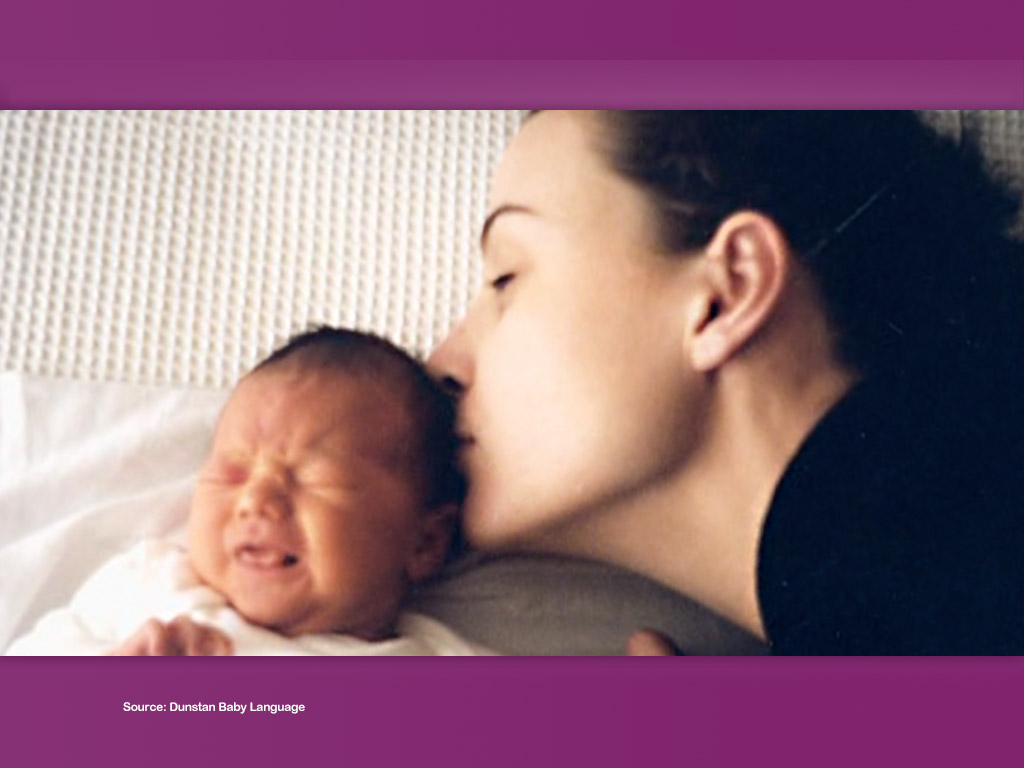
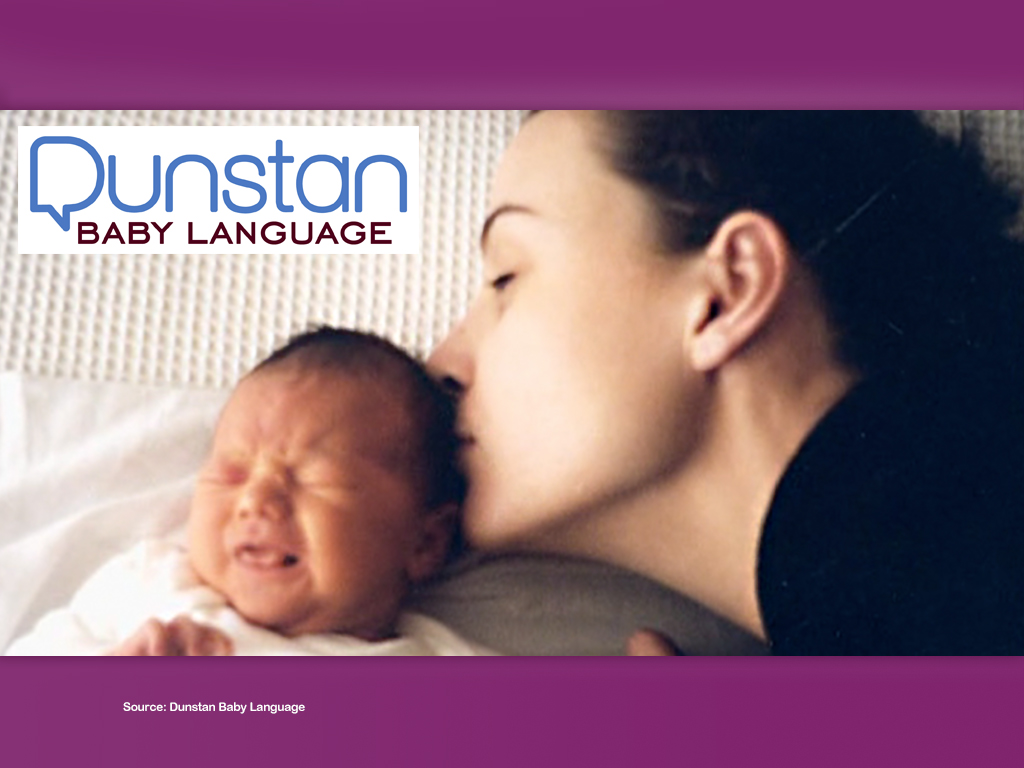
Changes made by Jeffrey Turingan (jeffrey.turingan@gmail.com).

Changed region(s): [[0.0, 0.1562, 0.4062, 0.3438]]

diff --git a/Enfalac/index.html b/Enfalac/index.html
@@ -1,1 +1,1 @@
-<!DOCTYPE html><html><head><meta name="apple-mobile-web-app-capable" content="yes"/><meta name="apple-mobile-web-app-status-bar-style" content="black-translucent"/><meta name="viewport" content="width=device-width, initial-scale=1.0, maximum-scale=1.0, user-scalable=0"/><link rel="stylesheet" href="css/main.min.css"><link rel="stylesheet" href="css/bookblock.min.css"><link rel="stylesheet" href="css/custom.min.css"><script src="js/modernizr.custom.79639.js"></script><!--<script>window.onload=function(){document.getElementById('babygiggle').pause();};</script>--><title>Enfalac</title></head><body><div id="container" class="container"><div class="menu-panel"><h3>Table of Contents</h3><ul id="menu-toc" class="menu-toc"><li class="menu-toc-current"><a href="#item1">Slide 1</a></li><li><a href="#item2">Slide 2</a></li><li><a href="#item3">Slide 3</a></li><li><a href="#item4">Slide 4</a></li><li><a href="#item5">Slide 5</a></li><li><a href="#item6">Slide 6</a></li><li><a href="#item7">Slide 7</a></li><li><a href="#item8">Slide 8</a></li><li><a href="#item9">Slide 9</a></li><li><a href="#item10">Slide 10</a></li><li><a href="#item11">Slide 11</a></li><li><a href="#item12">Slide 12</a></li></ul></div><div class="bb-custom-wrapper"><div id="bb-bookblock" class="bb-bookblock"><div class="bb-item" id="item1"><div class="content"><div id="slide1" class="slidebox"><a class="one-refreshBtn"></a><img class="slide1txt" src="css/images/slide1text.png" alt=""/><!--<span class="baby1"><img src="css/images/baby1.png" alt=""/></span><span class="baby1t"><img src="css/images/baby1t.png" alt=""/></span><span class="baby2"><img src="css/images/baby2.png" alt=""/></span><span class="baby2t"><img src="css/images/baby2t.png" alt=""/></span><span class="baby3"><img src="css/images/baby3.png" alt=""/></span><span class="baby3t"><img src="css/images/baby3t.png" alt=""/></span><span class="baby4"><img src="css/images/baby4.png" alt=""/></span><span class="baby4t"><img src="css/images/baby4t.png" alt=""/></span><span class="baby5"><img src="css/images/baby5.png" alt=""/></span><span class="baby5t"><img src="css/images/baby5t.png" alt=""/></span>--></div></div></div><div class="bb-item" id="item2"><div class="content"><div id="slide2" class="slidebox"><!--<span class="pulsate1"><img src="css/images/pulsate.png" alt=""/></span><span class="pulsate2"><img src="css/images/pulsate.png" alt=""/></span><span class="pulsate3"><img src="css/images/pulsate.png" alt=""/></span><span class="s2a"></span><span class="s2b"></span><span class="s2c"></span>--></div></div></div><div class="bb-item" id="item3"><div class="content"><div id="slide3" class="slidebox"></div></div></div><div class="bb-item" id="item4"><div class="content"><div id="slide4" class="slidebox"><a class="video1btn"></a><div id="slide4v" class="videobox"><a class="close">CLOSE</a><div class="vidz"><!--<video width="1024" height="700" controls><source src="video/vid1.mp4" type="video/mp4"/>Your browser does not support the video tag.</video>--></div></div></div></div></div><div class="bb-item" id="item5"><div class="content"><div id="slide6" class="slidebox"><a class="video2btn"></a><div id="slide6v" class="videobox"><a class="close">CLOSE</a><div class="vidz"><!--<video width="1024" height="700" controls><source src="video/vid3.mp4" type="video/mp4"/>Your browser does not support the video tag.</video>--></div></div></div></div></div><div class="bb-item" id="item6"><div class="content"><div id="slide5" class="slidebox"><a class="video3btn"></a><div id="slide5v" class="videobox"><a class="close">CLOSE</a><div class="vidz"></div></div></div></div></div><div class="bb-item" id="item7"><div class="content"><div id="slide7" class="slidebox"><a class="seven-refreshBtn"></a><img src="css/images/slide7txt.png" class="slide7txt" alt=""/><div class="stomach1"><img src="css/images/slide7st.png" alt=""/></div></div></div></div><div class="bb-item" id="item8"><div class="content"><div id="slide8" class="slidebox"><a class="eight-refreshBtn"></a><img src="css/images/slide8txt.png" class="slide8txt" alt=""/><div class="stomach2"><img src="css/images/slide8st.png" alt=""/></div></div></div></div><div class="bb-item" id="item9"><div class="content"><div id="slide9" class="slidebox"><a class="nine-refreshBtn"></a><span class="slide9txt1"></span><img class="slide9txt2" src="css/images/slide9txt2.png" alt=""/><img class="slide9txt3" src="css/images/slide9txt3.png" alt=""/><img class="slide9atxt" src="css/images/slide9-atxt.png" alt=""/><img class="arrow1" src="css/images/slide9-a1.png" alt=""/><img class="arrow2" src="css/images/slide9-a2.png" alt=""/><img class="arrow3" src="css/images/slide9-a3.png" alt=""/><img class="arrow4" src="css/images/slide9-a4.png" alt=""/></div></div></div><div class="bb-item" id="item10"><div class="content"><div id="slide10" class="slidebox"><a class="ten-refreshBtn"></a><span class="slide10txt1"></span><span id="slide10c1"></span><span id="slide10c2"></span><img class="slide10c3" src="css/images/slide10c3.png" alt=""/><img class="slide10c4" src="css/images/slide10c4.png" alt=""/></div></div></div><div class="bb-item" id="item11"><div class="content"><div id="slide11" class="slidebox"><a class="eleven-refreshBtn"></a><img src="css/images/slide11txt1.png" alt="" class="slide11txt1"/><img src="css/images/slide11c1.png" alt="" class="slide11c1"/><img src="css/images/slide11c2.png" alt="" class="slide11c2"/><img src="css/images/slide11c3.png" alt="" class="slide11c3"/><img src="css/images/slide0.png" class="slide11c4" alt=""/></div></div></div><div class="bb-item" id="item12"><div class="content"><div id="slide12" class="slidebox"><a class="twelve-refreshBtn"></a><div id="audiobox" class=""></div></div></div></div></div><nav class="hidden"><span id="bb-nav-prev">&larr;</span><span id="bb-nav-next">&rarr;</span></nav><span id="tblcontents" class="menu-button hidden ">Table of Contents</span></div></div><footer></footer><a class="homeBtn"></a><script src="http://ajax.googleapis.com/ajax/libs/jquery/1.8.3/jquery.min.js"></script><script type="" src="http://ajax.googleapis.com/ajax/libs/jqueryui/1.8/jquery-ui.min.js"></script><script src="js/jquerypp.custom.min.js"></script><script src="js/jquery.bookblock.min.js"></script><script src="js/page.min.js"></script><script src="js/enfalac.min.js"></script><script>$(function(){Page.init();});</script></body></html>
+<!DOCTYPE html><html><head><meta name="apple-mobile-web-app-capable" content="yes"/><meta name="apple-mobile-web-app-status-bar-style" content="black-translucent"/><meta name="viewport" content="width=device-width, initial-scale=1.0, maximum-scale=1.0, user-scalable=0"/><link rel="stylesheet" href="css/main.min.css"><link rel="stylesheet" href="css/bookblock.min.css"><link rel="stylesheet" href="css/custom.min.css"><script src="js/modernizr.custom.79639.js"></script><title>Enfalac</title></head><body><div id="container" class="container"><div class="menu-panel"><h3>Table of Contents</h3><ul id="menu-toc" class="menu-toc"><li class="menu-toc-current"><a href="#item1">Slide 1</a></li><li><a href="#item2">Slide 2</a></li><li><a href="#item3">Slide 3</a></li><li><a href="#item4">Slide 4</a></li><li><a href="#item5">Slide 5</a></li><li><a href="#item6">Slide 6</a></li><li><a href="#item7">Slide 7</a></li><li><a href="#item8">Slide 8</a></li><li><a href="#item9">Slide 9</a></li><li><a href="#item10">Slide 10</a></li><li><a href="#item11">Slide 11</a></li><li><a href="#item12">Slide 12</a></li></ul></div><div class="bb-custom-wrapper"><div id="bb-bookblock" class="bb-bookblock"><div class="bb-item" id="item1"><div class="content"><div id="slide1" class="slidebox"><a class="one-refreshBtn"></a><img class="slide1txt" src="css/images/slide1text.png" alt=""/><!--<span class="baby1"><img src="css/images/baby1.png" alt=""/></span><span class="baby1t"><img src="css/images/baby1t.png" alt=""/></span><span class="baby2"><img src="css/images/baby2.png" alt=""/></span><span class="baby2t"><img src="css/images/baby2t.png" alt=""/></span><span class="baby3"><img src="css/images/baby3.png" alt=""/></span><span class="baby3t"><img src="css/images/baby3t.png" alt=""/></span><span class="baby4"><img src="css/images/baby4.png" alt=""/></span><span class="baby4t"><img src="css/images/baby4t.png" alt=""/></span><span class="baby5"><img src="css/images/baby5.png" alt=""/></span><span class="baby5t"><img src="css/images/baby5t.png" alt=""/></span>--></div></div></div><div class="bb-item" id="item2"><div class="content"><div id="slide2" class="slidebox"><!--<span class="pulsate1"><img src="css/images/pulsate.png" alt=""/></span><span class="pulsate2"><img src="css/images/pulsate.png" alt=""/></span><span class="pulsate3"><img src="css/images/pulsate.png" alt=""/></span><span class="s2a"></span><span class="s2b"></span><span class="s2c"></span>--></div></div></div><div class="bb-item" id="item3"><div class="content"><div id="slide3" class="slidebox"></div></div></div><div class="bb-item" id="item4"><div class="content"><div id="slide4" class="slidebox"><a class="video1btn"></a><div id="slide4v" class="videobox"><a class="close">CLOSE</a><div class="vidz"><!--<video width="1024" height="700" controls><source src="video/vid1.mp4" type="video/mp4"/>Your browser does not support the video tag.</video>--></div></div></div></div></div><div class="bb-item" id="item5"><div class="content"><div id="slide6" class="slidebox"><a class="video2btn"></a><div id="slide6v" class="videobox"><a class="close">CLOSE</a><div class="vidz"><!--<video width="1024" height="700" controls><source src="video/vid3.mp4" type="video/mp4"/>Your browser does not support the video tag.</video>--></div></div></div></div></div><div class="bb-item" id="item6"><div class="content"><div id="slide5" class="slidebox"><a class="video3btn"></a><div id="slide5v" class="videobox"><a class="close">CLOSE</a><div class="vidz"></div></div></div></div></div><div class="bb-item" id="item7"><div class="content"><div id="slide7" class="slidebox"><a class="seven-refreshBtn"></a><img src="css/images/slide7new.png" class="slide7new" alt=""/><!--<img src="css/images/slide7txt.png" class="slide7txt" alt=""/><div class="stomach1"><img src="css/images/slide7st.png" alt=""/></div>--></div></div></div><div class="bb-item" id="item8"><div class="content"><div id="slide8" class="slidebox"><a class="eight-refreshBtn"></a><img src="css/images/slide8txt.png" class="slide8txt" alt=""/><div class="stomach2"><img src="css/images/slide8st.png" alt=""/></div></div></div></div><div class="bb-item" id="item9"><div class="content"><div id="slide9" class="slidebox"><a class="nine-refreshBtn"></a><span class="slide9txt1"></span><img class="slide9txt2" src="css/images/slide9txt2.png" alt=""/><img class="slide9txt3" src="css/images/slide9txt3.png" alt=""/><img class="slide9atxt" src="css/images/slide9-atxt.png" alt=""/><img class="arrow1" src="css/images/slide9-a1.png" alt=""/><img class="arrow2" src="css/images/slide9-a2.png" alt=""/><img class="arrow3" src="css/images/slide9-a3.png" alt=""/><img class="arrow4" src="css/images/slide9-a4.png" alt=""/></div></div></div><div class="bb-item" id="item10"><div class="content"><div id="slide10" class="slidebox"><a class="ten-refreshBtn"></a><span class="slide10txt1"></span><span id="slide10c1"></span><span id="slide10c2"></span><img class="slide10c3" src="css/images/slide10c3.png" alt=""/><img class="slide10c4" src="css/images/slide10c4.png" alt=""/></div></div></div><div class="bb-item" id="item11"><div class="content"><div id="slide11" class="slidebox"><a class="eleven-refreshBtn"></a><img src="css/images/slide11txt1.png" alt="" class="slide11txt1"/><img src="css/images/slide11c1.png" alt="" class="slide11c1"/><img src="css/images/slide11c2.png" alt="" class="slide11c2"/><img src="css/images/slide11c3.png" alt="" class="slide11c3"/><img src="css/images/slide0.png" class="slide11c4" alt=""/></div></div></div><div class="bb-item" id="item12"><div class="content"><div id="slide12" class="slidebox"><a class="twelve-refreshBtn"></a><div id="audiobox" class=""></div></div></div></div></div><nav class="hidden"><span id="bb-nav-prev">&larr;</span><span id="bb-nav-next">&rarr;</span></nav><span id="tblcontents" class="menu-button hidden ">Table of Contents</span></div></div><footer></footer><a class="homeBtn"></a><script src="http://ajax.googleapis.com/ajax/libs/jquery/1.8.3/jquery.min.js"></script><script type="" src="http://ajax.googleapis.com/ajax/libs/jqueryui/1.8/jquery-ui.min.js"></script><script src="js/jquerypp.custom.min.js"></script><script src="js/jquery.bookblock.min.js"></script><script src="js/page.min.js"></script><script src="js/enfalac.min.js"></script><script>$(function(){Page.init();});</script></body></html>
